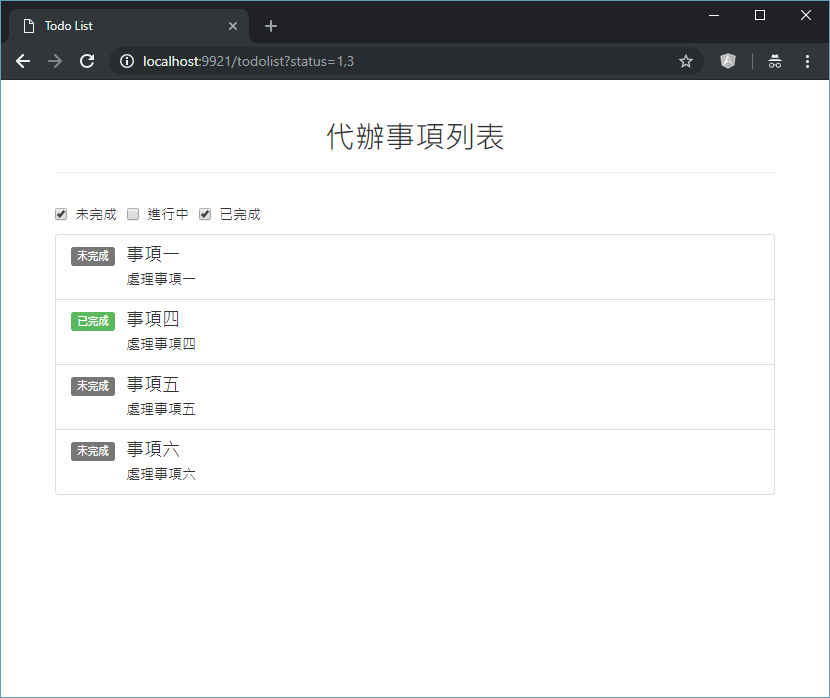
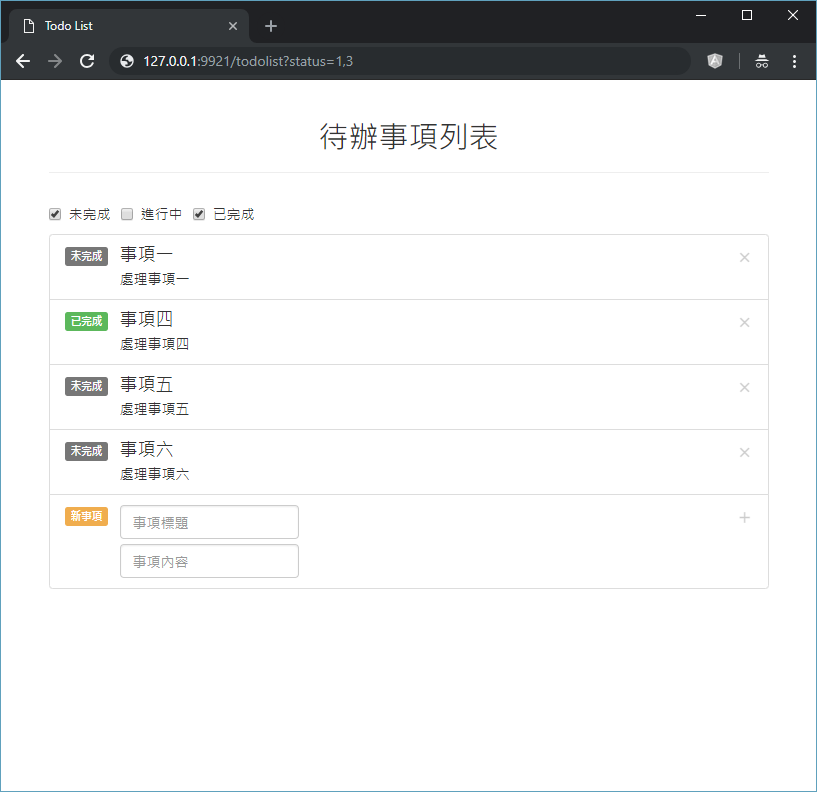
modify demo

diff --git a/docs/index.html b/docs/index.html
@@ -18,7 +18,7 @@
 <body>
     <div class="container" ng-controller="todoCtrl">
         <div class="page-header">
-            <h2 class="text-center">代辦事項列表</h2>
+            <h2 class="text-center">待辦事項列表</h2>
         </div>
         <div class="row">
             <div class="col-md-8 col-md-offset-2">
@@ -36,11 +36,36 @@
                         <div class="media">
                             <div class="media-left">
                                 <span class="label" ng-class="{'label-default':l.statusInfo.id==1,'label-info':l.statusInfo.id==2,'label-success':l.statusInfo.id==3}"
-                                    ng-bind="l.statusInfo.name"></span>
+                                    role="button" ng-bind="l.statusInfo.name" ng-click="updateTermStatus(l)"></span>
                             </div>
                             <div class="media-body">
-                                <h4 class="media-heading" ng-bind="l.name"></h4>
-                                <span ng-bind="l.description"></span>
+                                <div ng-hide="l.isEditing" ng-dblclick="l.isEditing=!l.isEditing">
+                                    <h4 class="media-heading" ng-bind="l.name"></h4>
+                                    <span ng-bind="l.description"></span>
+                                </div>
+                                <div ng-show="l.isEditing">
+                                    <h4 class="media-heading form-inline">
+                                        <div class="form-group">
+                                            <input type="text" class="form-control" ng-model="l.name" placeholder="事項標題">
+                                        </div>
+                                    </h4>
+                                    <div class="form-inline">
+                                        <span class="form-group">
+                                            <input type="text" class="form-control" ng-model="l.description"
+                                                placeholder="事項內容">
+                                        </span>
+                                    </div>
+                                </div>
+                            </div>
+                            <div class="media-right">
+                                <button ng-hide="l.isEditing" type="button" class="close" aria-label="Close" ng-click="deleteTerm(l.id)"
+                                    title="刪除">
+                                    <span aria-hidden="true">&times;</span>
+                                </button>
+                                <button ng-show="l.isEditing" type="button" class="close" aria-label="Close" ng-click="updateTerm(l)"
+                                    title="更新">
+                                    <span aria-hidden="true">&radic;</span>
+                                </button>
                             </div>
                         </div>
                     </li>
@@ -48,6 +73,31 @@
                         <div class="media">
                             <div class="media-body">
                                 <span>無資料</span>
+                            </div>
+                        </div>
+                    </li>
+                    <li class="list-group-item">
+                        <div class="media">
+                            <div class="media-left">
+                                <span class="label label-warning">新事項</span>
+                            </div>
+                            <div class="media-body">
+                                <h4 class="media-heading form-inline">
+                                    <div class="form-group">
+                                        <input type="text" class="form-control" ng-model="term.name" placeholder="事項標題">
+                                    </div>
+                                </h4>
+                                <div class="form-inline">
+                                    <span class="form-group">
+                                        <input type="text" class="form-control" ng-model="term.description" placeholder="事項內容">
+                                    </span>
+                                </div>
+                            </div>
+                            <div class="media-right">
+                                <button type="button" class="close" aria-label="Close" ng-click="createTerm(term)"
+                                    title="新增">
+                                    <span aria-hidden="true">+</span>
+                                </button>
                             </div>
                         </div>
                     </li>
@@ -159,6 +209,40 @@
                         $scope.setupList();
                     }
 
+                    $scope.deleteTerm = (termId) => {
+                        todoList = todoList.filter(t => t.id != termId);
+                        $scope.setupList();
+                    };
+
+                    $scope.createTerm = (term) => {
+                        if (!term.name && !term.description) {
+                            return;
+                        }
+                        const newTerm = {
+                            id: [].concat(todoList).sort((a, b) => (b.id - a.id))[0].id + 1,
+                            status: 1,
+                            name: term.name,
+                            description: term.description
+                        }
+                        todoList.push(newTerm);
+                        term.name = null;
+                        term.description = null;
+                        $scope.setupList();
+                    };
+
+                    $scope.updateTerm = (term) => {
+                        let target = todoList.filter(t => t.id === term.id)[0];
+                        target.name = term.name;
+                        target.description = term.description;
+                        target.isEditing = false;
+                        $scope.setupList();
+                    }
+
+                    $scope.updateTermStatus = (term) => {
+                        let target = todoList.filter(t => t.id === term.id)[0];
+                        target.status == 3 ? target.status = 1 : target.status++;
+                        $scope.setupList();
+                    }
 
                     function filterStatus(status) {
                         return $scope.queryStatusId.length === 0 ?
